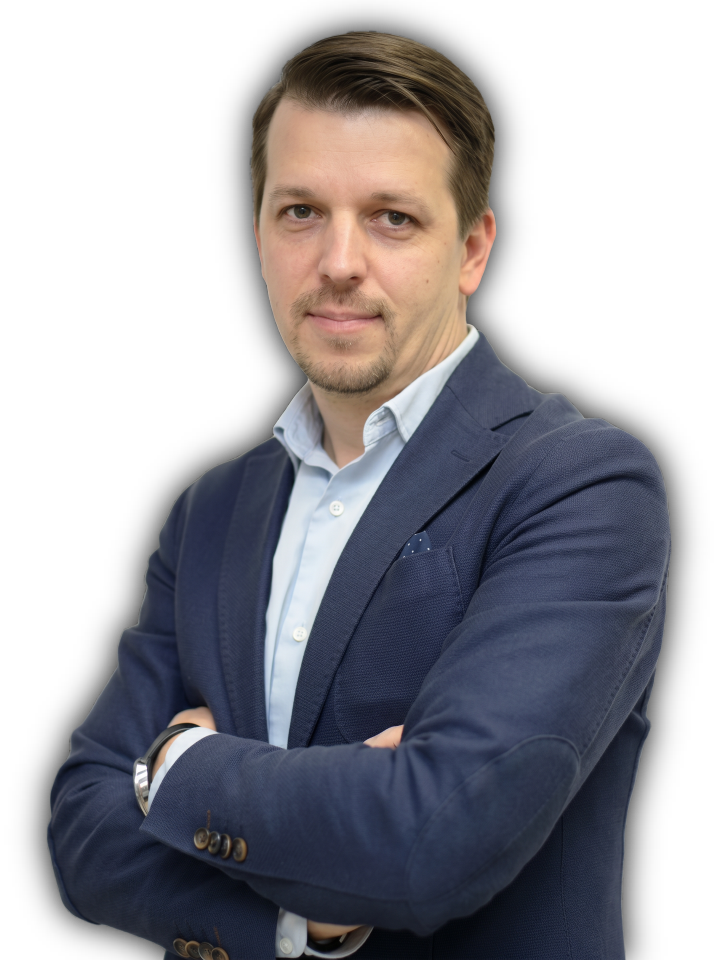
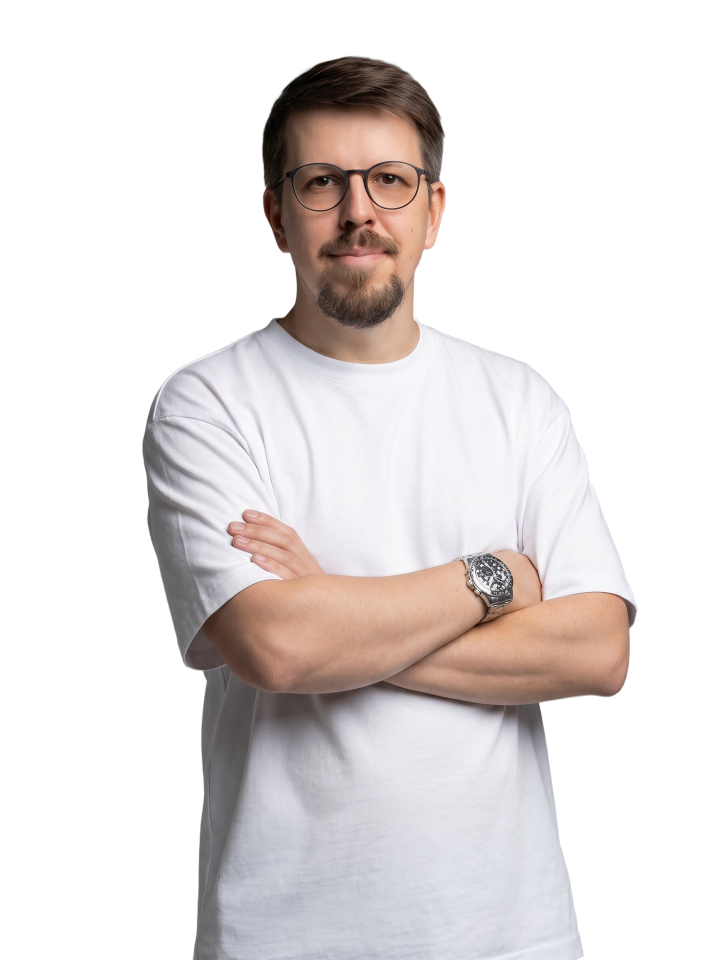
Update: new Lukin photo (transparent bg) + nav fix

diff --git a/index.html b/index.html
@@ -44,6 +44,9 @@ body {
   background: rgba(12,12,12,0.92);
   backdrop-filter: blur(12px);
   border-bottom: 1px solid var(--border-dark);
+  -webkit-transform: translateZ(0);
+  transform: translateZ(0);
+  will-change: transform;
 }
 
 .top-nav .nav-logo {
@@ -897,7 +900,7 @@ body {
 
         <div style="background:rgba(255,255,255,0.03); border:1px solid rgba(255,255,255,0.08); padding:16px 18px;">
           <div style="font-size:9px; font-weight:700; letter-spacing:2px; text-transform:uppercase; color:rgba(255,255,255,0.35); margin-bottom:10px;">03 Мёртвая база</div>
-          <p style="font-size:11px; color:rgba(255,255,255,0.75); line-height:1.6; margin:0;">1,5 млн подписчиков - и только ~2 200 реагируют на пост. Люди подписывались годами за статус "читаю Forbes", а не за контент. Алгоритм видит, что миллион человек игнорирует посты - и показывает их ещё меньше людей. Спираль вниз.</p>
+          <p style="font-size:11px; color:rgba(255,255,255,0.75); line-height:1.6; margin:0;">1,5 млн подписчиков - и только ~2 200 реагируют на пост. Люди подписывались годами за статус "читаю Forbes", а не за контент. Алгоритм видит, что миллион человек игнорирует посты - и показывает их ещё меньшему количеству людей. Спираль вниз.</p>
         </div>
 
         <div style="background:rgba(255,255,255,0.03); border:1px solid rgba(255,255,255,0.08); padding:16px 18px;">